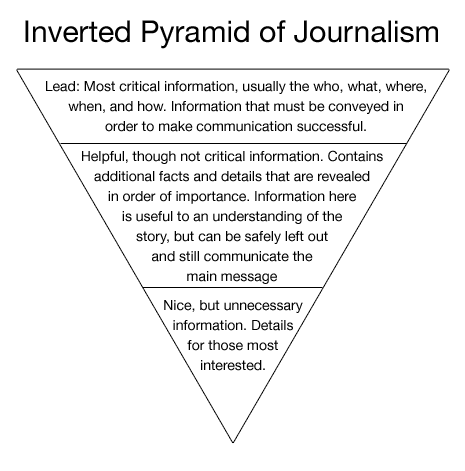
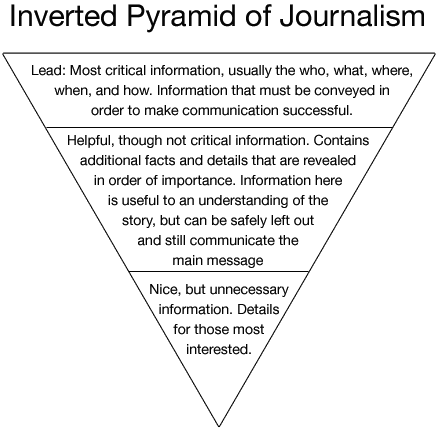
update inverted py

Changed region(s): [[0.0, 0.1195, 1.0, 0.9862], [0.0, 0.0, 0.975, 0.0897]]

diff --git a/index.html b/index.html
@@ -2,7 +2,7 @@
 <html lang="en">
 <head>
 	<meta charset="utf-8">
-	<link rel="shortcut icon" href="https://raw.githubusercontent.com/auremoser/mhd/master/assets/pyramid-favicon.ico" >
+	<link rel="shortcut icon" href="https://raw.githubusercontent.com/auremoser/mhd/master/asset/pyramid-i.png" >
 	<title>Media Hack Days</title>
 	<meta name="description" content="An introduction to developer-driven journalism designed for Media Hack Days participants 5/01/14">
 	<meta name="author" content="Aurelia Moser">
@@ -83,6 +83,23 @@
 				</section>
 				<aside class="notes">
 				</aside>
+			</section>
+			<section>
+				<section class="fragments" data-background="#34495E">
+					<h2>Goal of News Applications</h2>
+					<p class="fragment">Adopt a triangle 	methodology: simply communicate data fact and 	avoid narrative fiction</p>
+					<br>
+					<img class="fragment" src="https://raw.github.	com/auremoser/mhd/master/asset/inverted-py.png">
+				</section>
+				<section data-transition="linear" data-background="#1abc9c" data-background-transition="slide">
+					<h2>Pyramids</h2>
+					<br>
+					<img src="https://raw.github.com/auremoser/mhd/master/asset/pyramid-!.png.png" class="image navigate-down">
+					<img src="https://raw.github.com/auremoser/mhd/master/asset/pyramid-i.png" alt="Down arrow">
+					<img src="https://raw.github.com/auremoser/mhd/master/asset/triangles.png">
+					<aside class="notes">
+					</aside>
+				</section>
 			</section>
 			<section>
 				<section class="fragments" data-background="#2ecc71">
